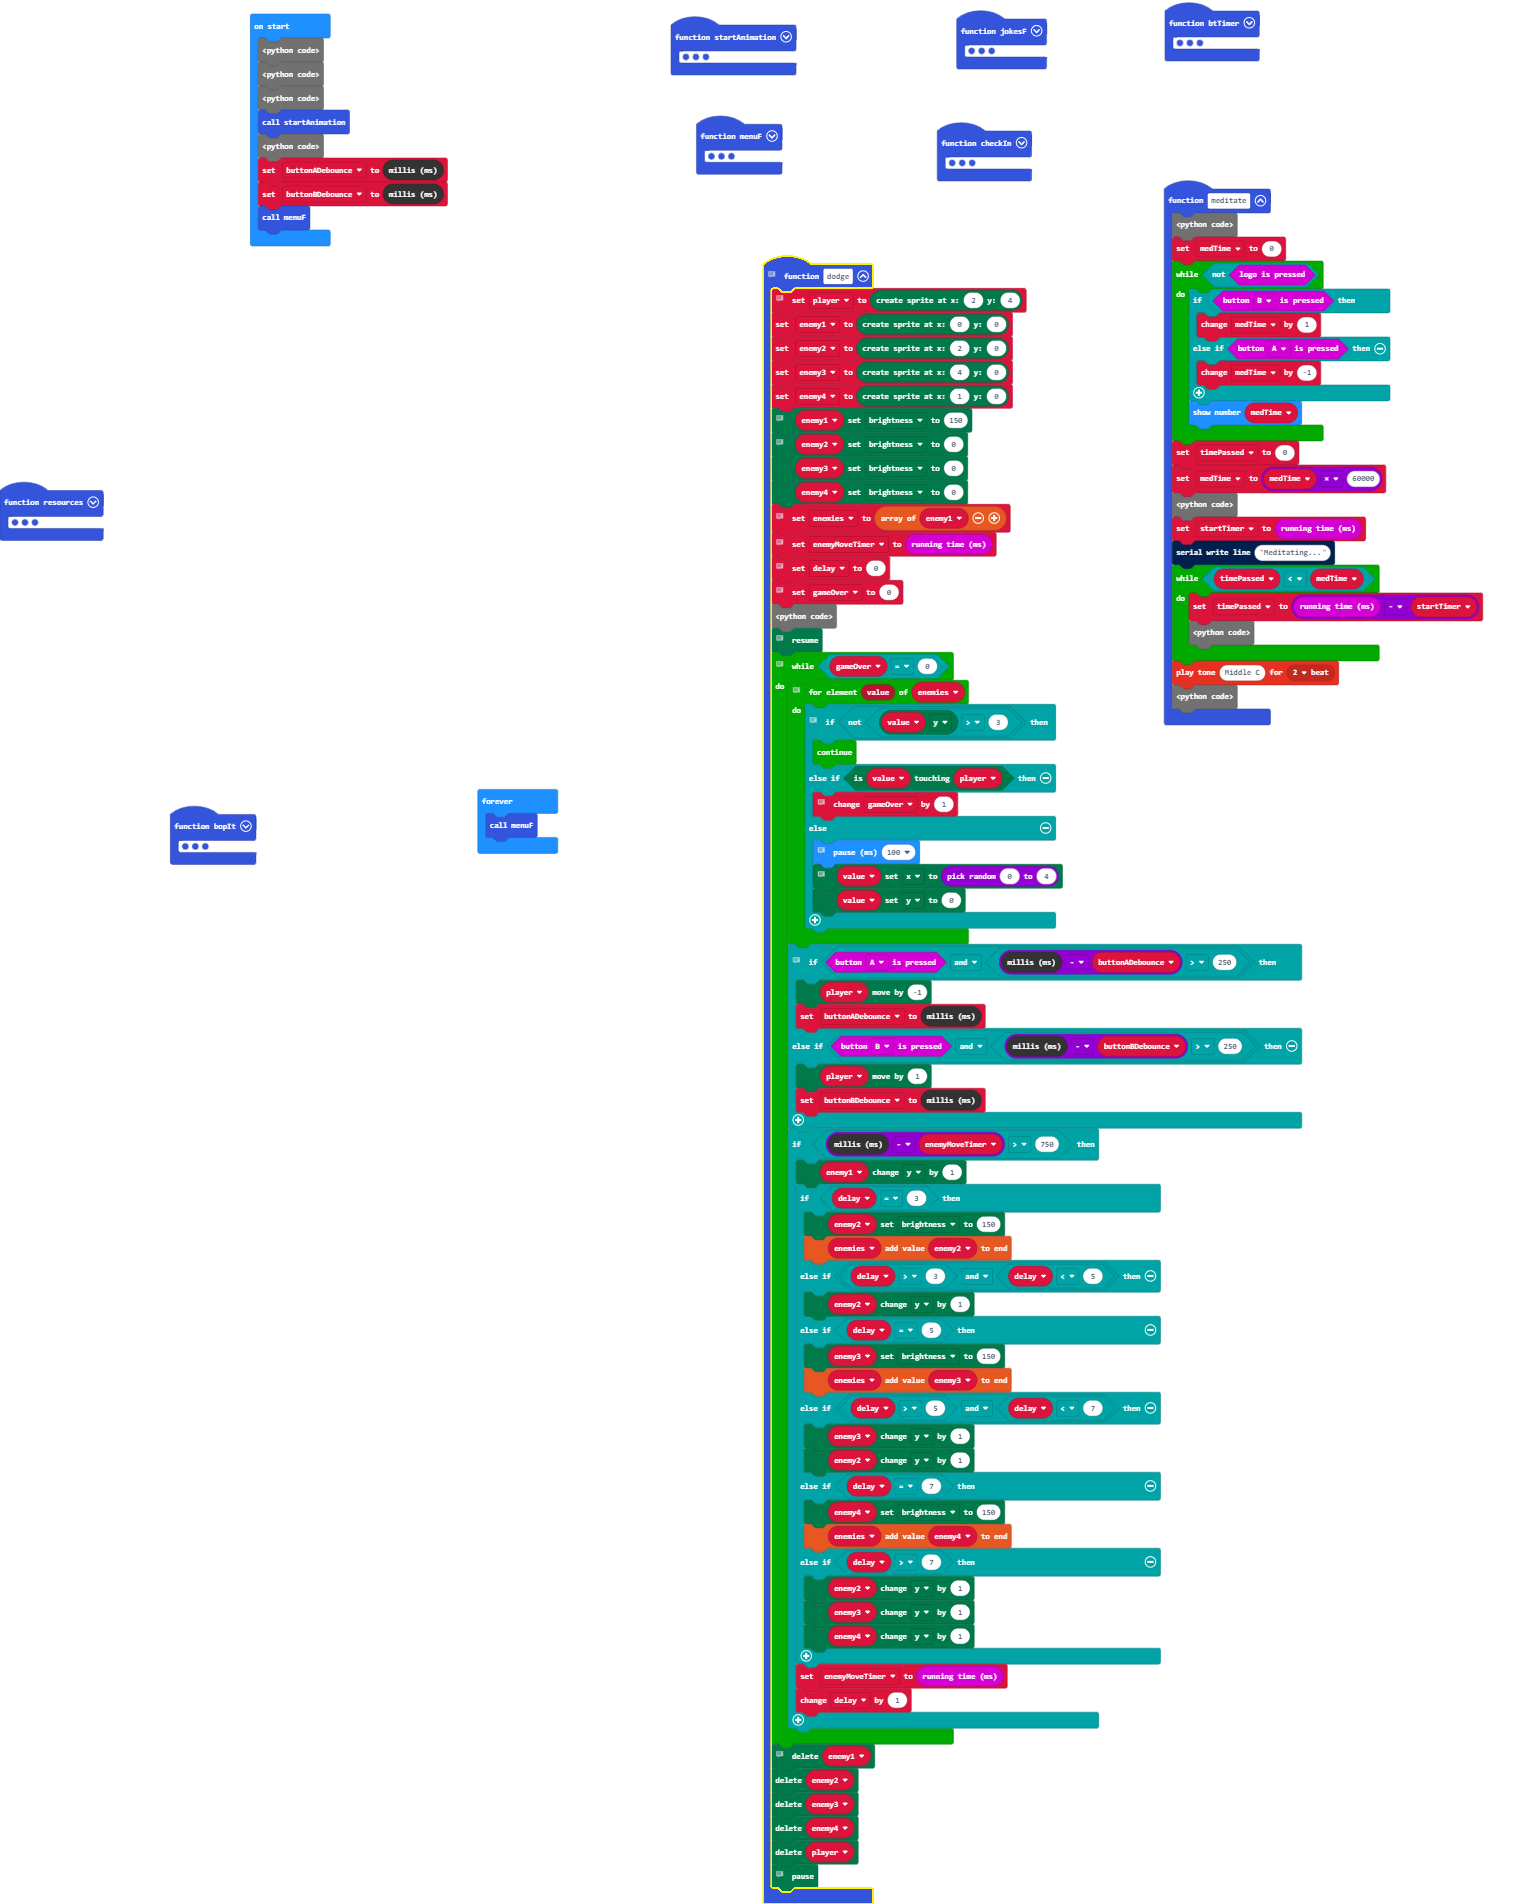
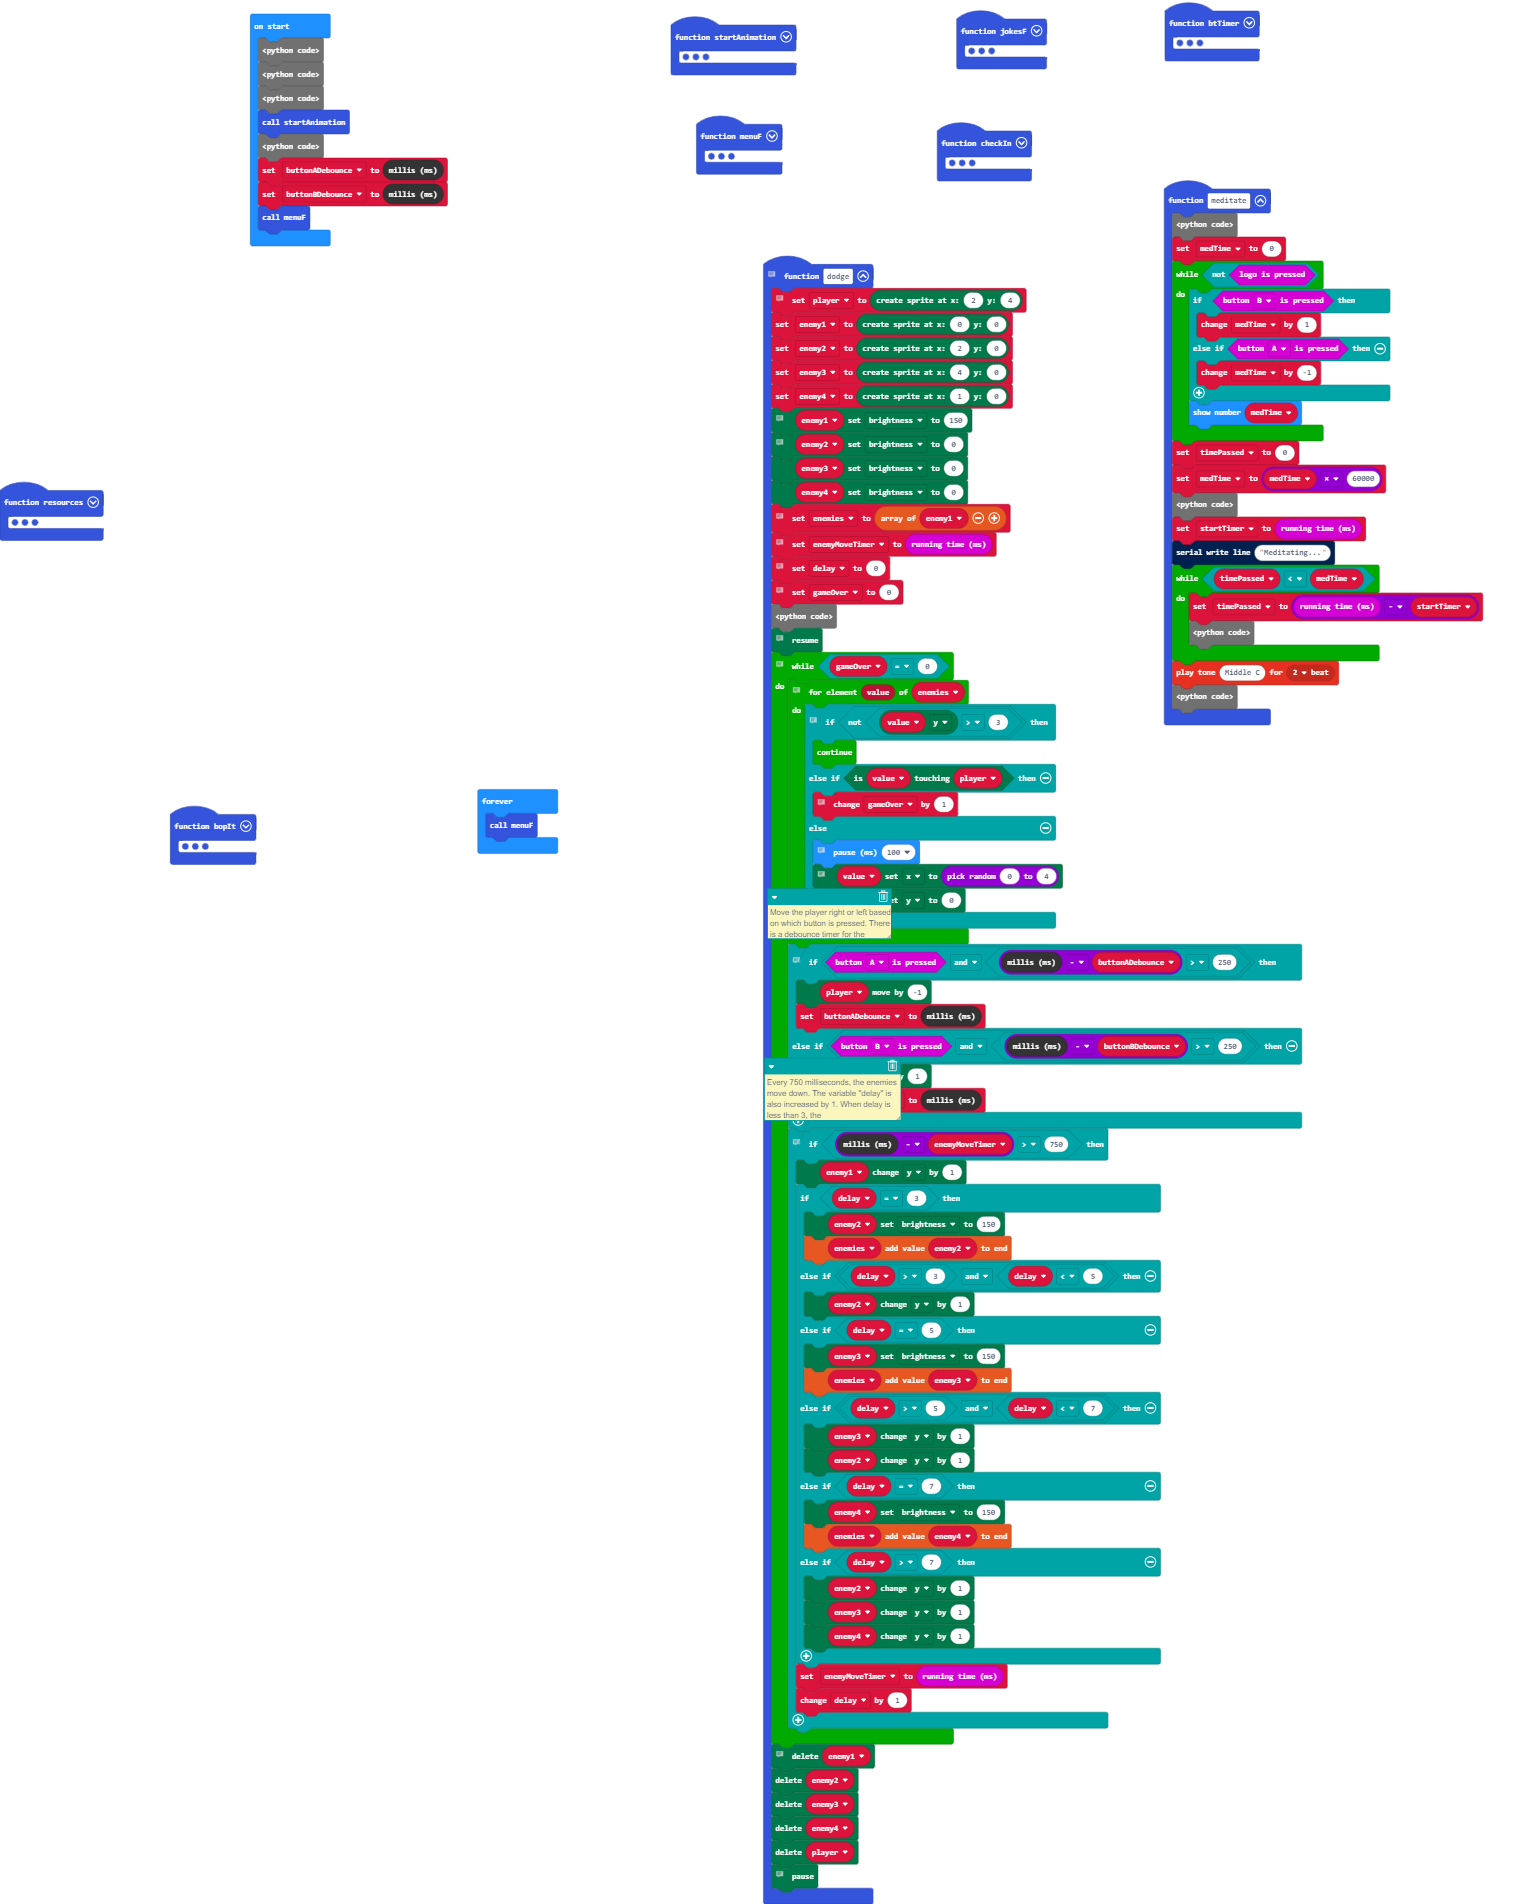
b4 changing dodge

diff --git a/main.ts b/main.ts
@@ -147,6 +147,7 @@ function dodge () {
             player.move(1)
             buttonBDebounce = control.millis()
         }
+        // Every 750 milliseconds, the enemies move down. The variable "delay" is also increased by 1. 
         if (control.millis() - enemyMoveTimer > 750) {
             enemy1.change(LedSpriteProperty.Y, 1)
             if (delay == 3) {
